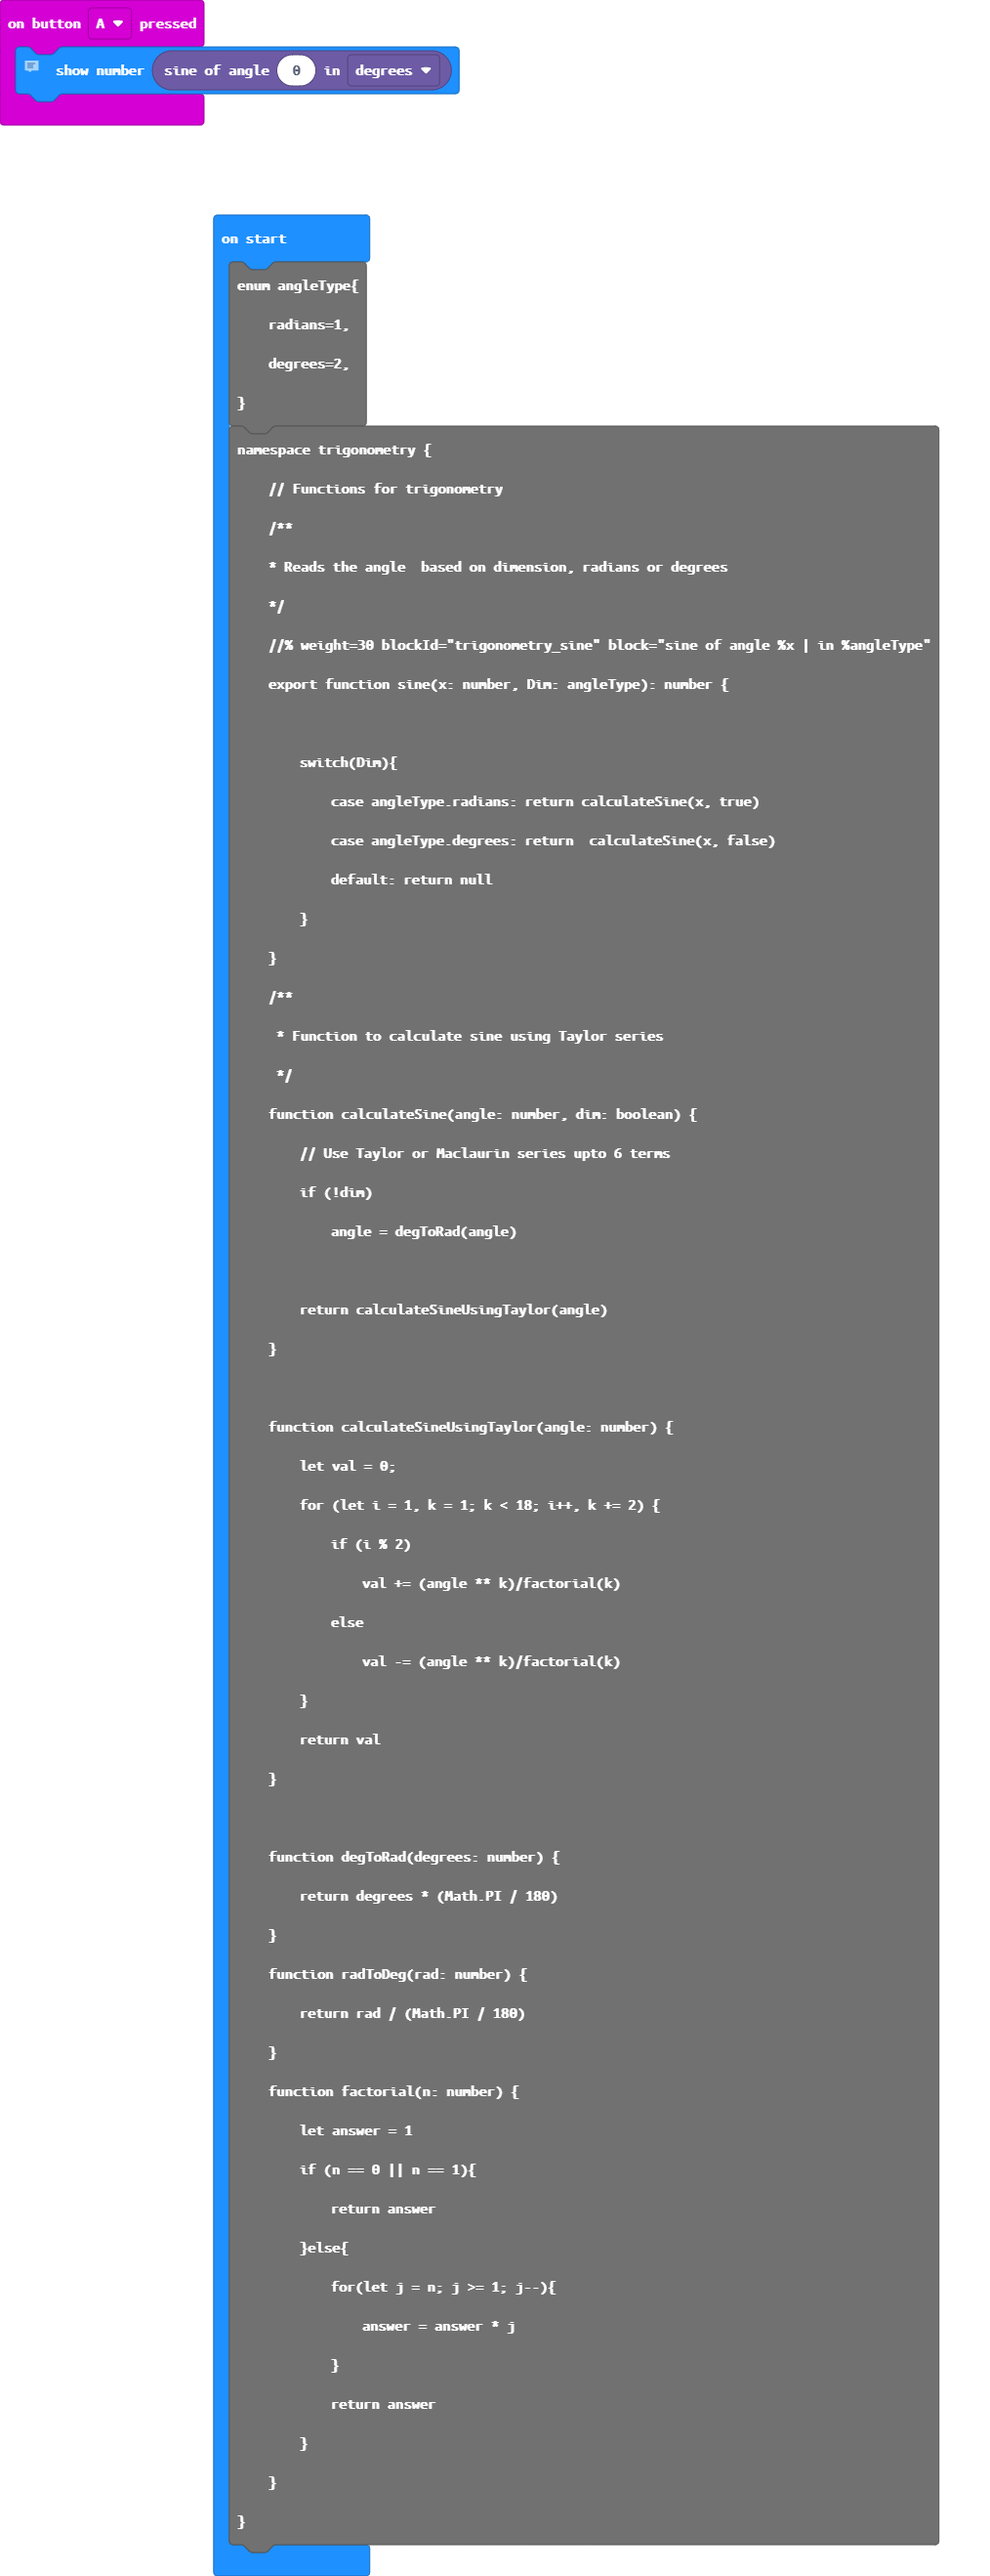
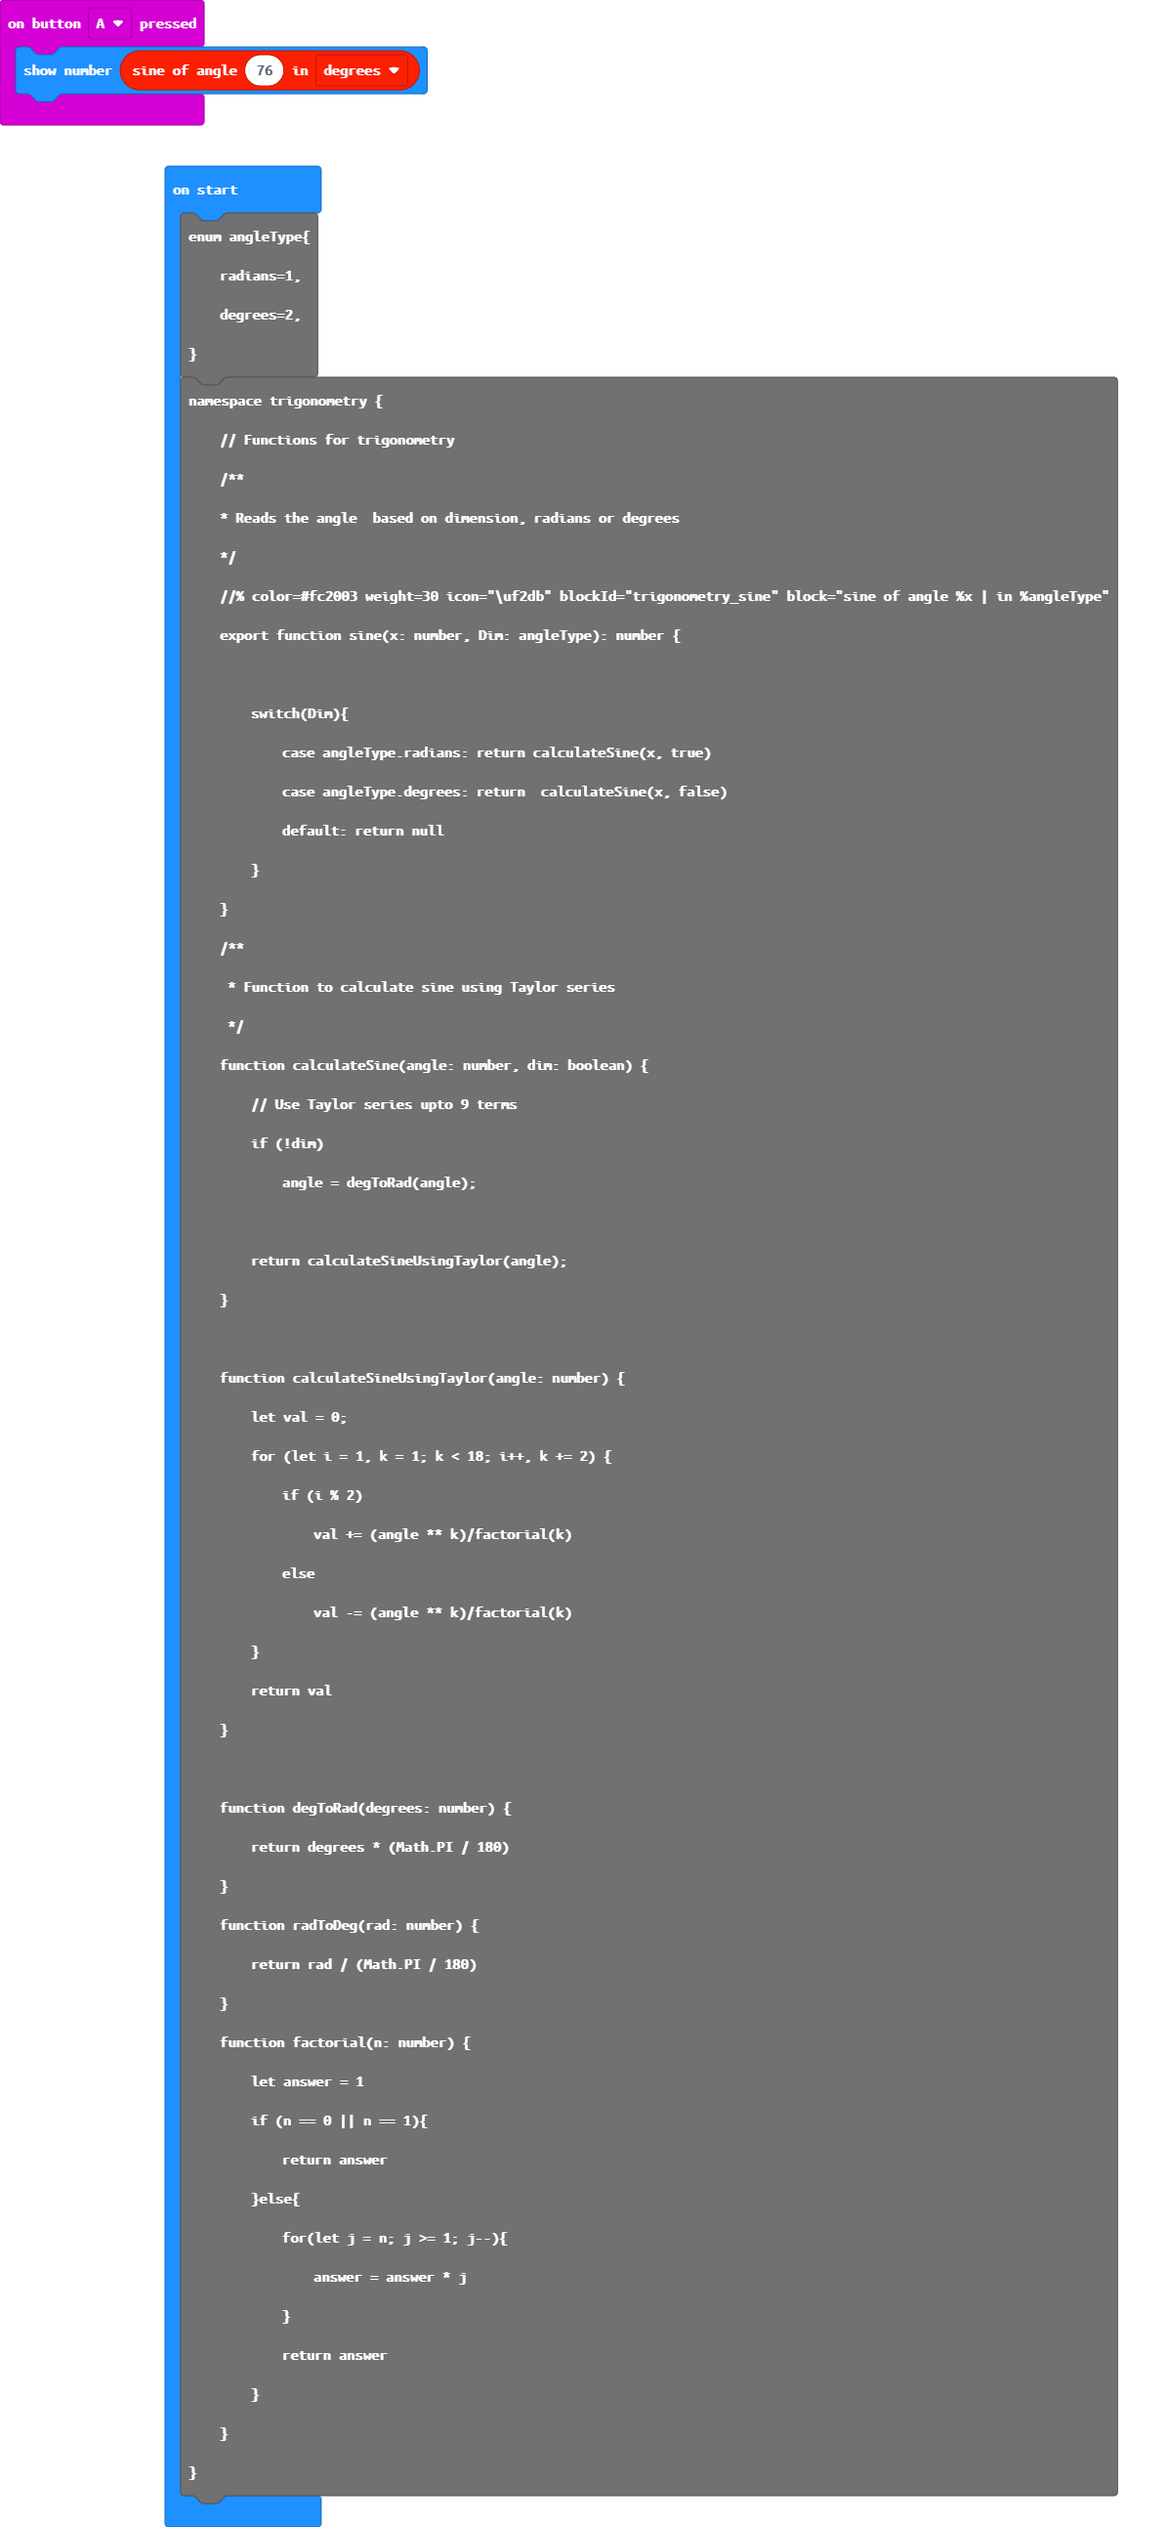
Update main.blocks, main.ts

diff --git a/main.ts b/main.ts
@@ -10,7 +10,7 @@ namespace trigonometry {
     /**
     * Reads the angle  based on dimension, radians or degrees
     */
-    //% weight=30 blockId="trigonometry_sine" block="sine of angle %x | in %angleType"
+    //% color=#fc2003 weight=30 icon="\uf2db" blockId="trigonometry_sine" block="sine of angle %x | in %angleType"
     export function sine(x: number, Dim: angleType): number {
     
         switch(Dim){
